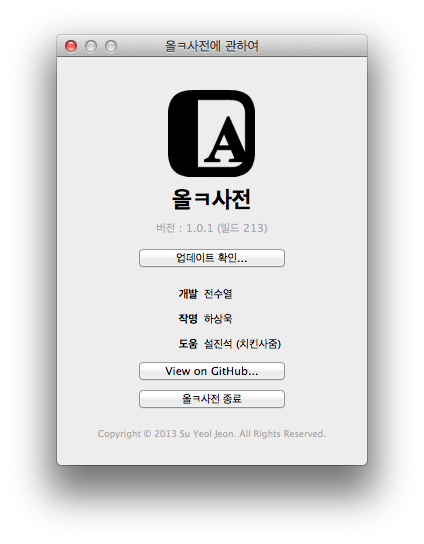
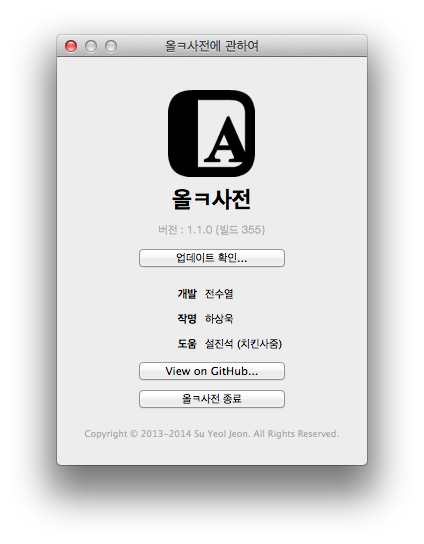
Updated for 1.1.0

diff --git a/index.html b/index.html
@@ -50,9 +50,9 @@
 	  		<small>올ㅋ사전<br />for Mac</small>
 	  		</h1>
 	  		<br />
-	  		<a href="https://dl.dropboxusercontent.com/u/69958027/Allkdic/Allkdic-1.0.1.app.zip" class="btn btn-large btn-info">Download</a>
+	  		<a href="https://dl.dropboxusercontent.com/u/69958027/Allkdic/Allkdic-1.1.0.app.zip" class="btn btn-large btn-info">Download</a>
 	  		<br />
-			Version : 1.0.1
+			Version : 1.1.0
 		</div>
 		
 		<section>
@@ -85,9 +85,9 @@
 		
 		<section>
 			<h1>올ㅋ</h1>
-			<a href="https://dl.dropboxusercontent.com/u/69958027/Allkdic/Allkdic-1.0.1.app.zip" class="btn btn-large btn-info">Download</a>
+			<a href="https://dl.dropboxusercontent.com/u/69958027/Allkdic/Allkdic-1.1.0.app.zip" class="btn btn-large btn-info">Download</a>
 			<br />
-			Version : 1.0.1
+			Version : 1.1.0
 		</section>
 		
 	</div>
@@ -100,7 +100,7 @@
 				<a href="https://github.com/devxoul/allkdic">View on GitHub</a>
 			</p>
 			<p>
-				Copyright © 2013 <a href="http://www.facebook.com/devxoul" target="_blank">Su Yeol Jeon</a>. All rights reserved.<br />
+				Copyright © 2013-2014 <a href="http://www.facebook.com/devxoul" target="_blank">Su Yeol Jeon</a>. All rights reserved.<br />
 			</p>
 		</div>
 	</footer>
